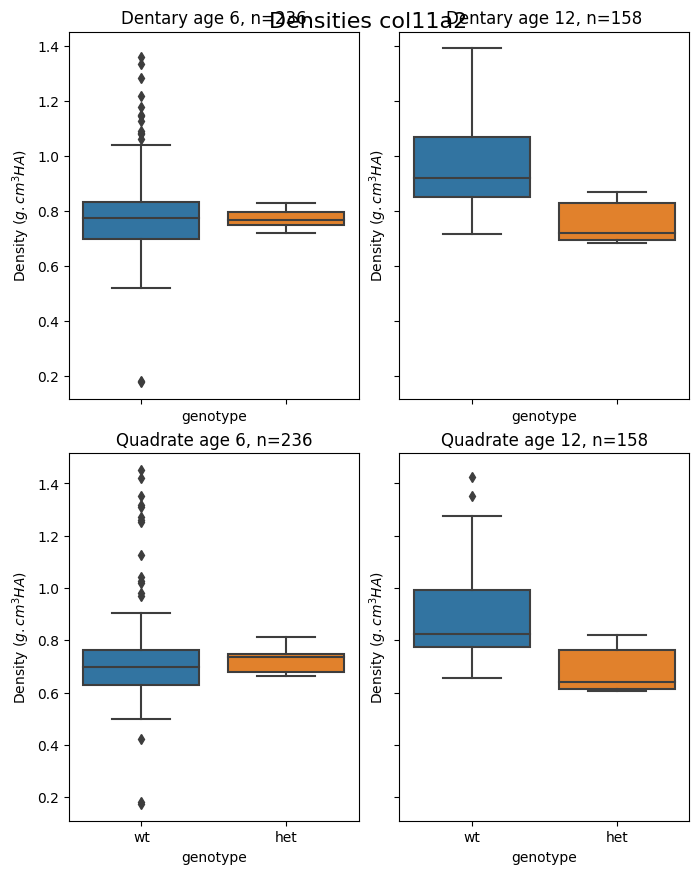
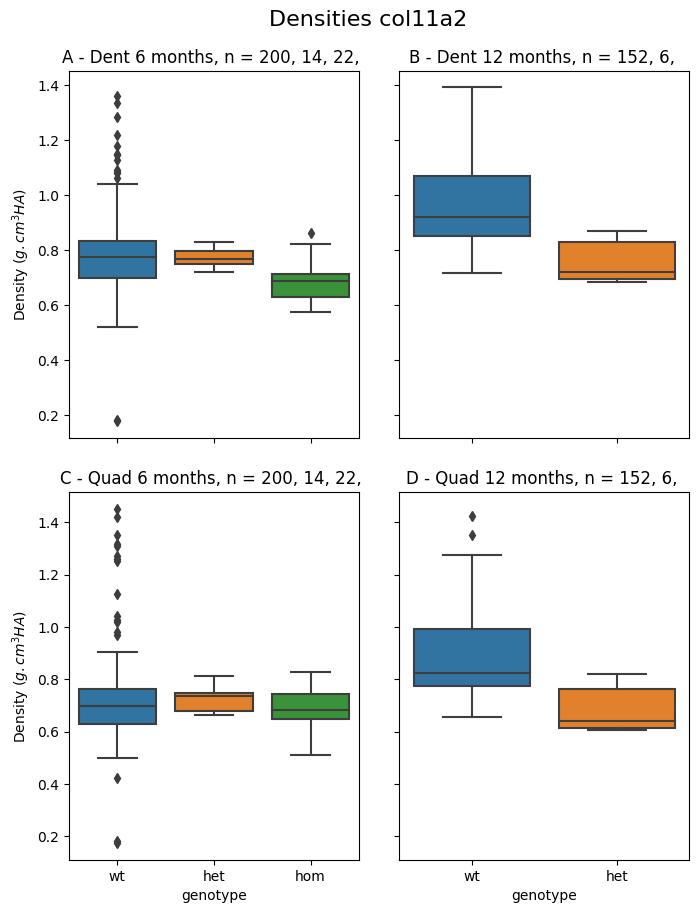
jaw figs

diff --git a/scripts/jaw/figs/plot_2x4.py b/scripts/jaw/figs/plot_2x4.py
@@ -10,11 +10,26 @@ import torch
 import seaborn as sns
 
 
+def get_names(df, col='genotype'):
+	order =['wt', 'het', 'hom', 'mosaic']
+	names = ""
+	df_dict = df.groupby(col)[col].count().to_dict()
+	
+	for i, o in enumerate(order):
+		
+		try: 
+	  		names = names + f"{df_dict[o]}, " 
+		except: pass
+			
+	
+	return names
 
 if __name__ == '__main__':
-	dataset_path = '/home/wahab/Data/HDD/uCT/'
+	# dataset_path = '/home/wahab/Data/HDD/uCT/'
 	# dataset_path = '/home/ak18001/Data/HDD/uCT/'
-	# dataset_path = '/mnt/scratch/ak18001/uCT/'
+	dataset_path = '/mnt/scratch/ak18001/uCT/'
+	sns.color_palette("hls", 3)
+
 
 	ctreader = ctfishpy.CTreader(dataset_path)
 	master = ctreader.master
@@ -30,10 +45,10 @@ if __name__ == '__main__':
 	genes_to_include = ['wt', 'barx1', 'arid1b', 'col11a2', 'giantin', 'chst11', 'runx2',
 	'wnt16', 'ncoa3', 'gdf5', 'mcf2l', 'scxa', 'sp7', 'col11 ',
 	'chsy1', 'atg', 'ctsk', 'spp1']
-	genes_to_analyse = ['wt','irf6']
+	genes_to_analyse = ['wt','col11 ']
 	age_bins = [6,12] # for age in months
 
-	import pdb; pdb.set_trace()
+	# import pdb; pdb.set_trace()
 
 	# bin  ages
 	master.age = pd.cut(master.age, bins = len(age_bins), labels=age_bins, 
@@ -79,38 +94,46 @@ if __name__ == '__main__':
 	print(dens_df)
 	print(vols_df)
 
-	fig , axs = plt.subplots(len(sub_bones)//2, len(age_bins),sharey="row",sharex=True)
+	fig , axs = plt.subplots(len(sub_bones)//2, len(age_bins),sharey="row",sharex="col")
 	plt.tight_layout()
 
 	bones_to_analyse = ["Dentary","Quadrate"]
-
+	bones_to_analyse_short = ["Dent","Quad"]
+	fig_index=0
 	for i, b in enumerate(bones_to_analyse):
-		df = ctreader.trim(dens_df, "Bone",[f"L_{b}", f"R_{b}"])
+		df = ctreader.trim(dens_df, "Bone", [f"L_{b}", f"R_{b}"])
 		for j, bin_ in enumerate(age_bins):
-			print(b,bin_)
+			print(i,j,b,bin_)
 
 			final_df = df.loc[df['age'] == bin_]
+			final_df.to_csv("output/test.csv")
 			# dropna?
-			sub_plot_title = f"{b} age {bin_}, n={len(final_df)}"
-			axs[i,j].title.set_text(sub_plot_title)
 			if len(df)>0:
 				# sns.violinplot(data=dens_df, x="genotype", y="Density ($g.cm^{3}HA$)", ax=axs[i,j], inner='stick',)
-				sns.boxplot(data=final_df, y="Density ($g.cm^{3}HA$)", hue="genotype", ax=axs[i,j])
+				sns.boxplot(data=final_df,  x="genotype", y="Density ($g.cm^{3}HA$)",ax=axs[i,j])
 			else: print("\nSKIPPED\n")
+			if b == "Dentary": axs[i,j].set_xlabel("")
+			if bin_ == 12: axs[i,j].set_ylabel("")
+			names = get_names(final_df)
+			sub_plot_title = f"{chr(fig_index+65)} - {bones_to_analyse_short[i]} {bin_} months, n = {names}"
+			axs[i,j].set_title(sub_plot_title)
 
+			fig_index += 1
 
+	# import pdb;pdb.set_trace()
 	
 	fig.set_figwidth(7)
 	fig.set_figheight(9)
+	fig.suptitle(f"Densities {genes_to_analyse[-1]}", fontsize=16, y=1.025)
+
 	# plt.subplots_adjust(left=0.125, bottom=0.125, right=0.25, top=0.25, wspace=0.25, hspace=0.25)
-	# plt.gcf().subplots_adjust(bottom=0.05, right=0.1)
-	fig.suptitle(f"Densities {genes_to_analyse[-1]}", fontsize=16)
+	# plt.gcf().subplots_adjust(bottom=0.5)
 	plt.savefig(f"output/results/jaw/genes/dens_{genes_to_analyse[-1]}.png", bbox_inches="tight")
 	plt.clf()
 
-	fig , axs = plt.subplots(len(sub_bones)//2, len(age_bins),sharey="row",sharex=True)
+	fig , axs = plt.subplots(len(sub_bones)//2, len(age_bins),sharey="row",sharex="col")
 	plt.tight_layout()
-
+	fig_index = 0
 	for i, b in enumerate(bones_to_analyse):
 		df = ctreader.trim(vols_df, "Bone",[f"L_{b}", f"R_{b}"])
 		for j, bin_ in enumerate(age_bins):
@@ -118,19 +141,25 @@ if __name__ == '__main__':
 			print(df)
 
 			final_df = df.loc[df['age'] == bin_]
-			final_df.reset_index()
-			sub_plot_title = f"{b} age {bin_}, n={len(final_df)}"
-			axs[i,j].title.set_text(sub_plot_title)
+
 			if len(df)>0:
 				# sns.violinplot(data=dens_df, x="genotype", y="Density ($g.cm^{3}HA$)", ax=axs[i,j], inner='stick',)
 				sns.boxplot(data=final_df, x="genotype", y="Volume ($mm^{3}$)", ax=axs[i,j])
 			else: print("\nSKIPPED\n")
+   
+			if b == "Dentary": axs[i,j].set_xlabel("")
+			if bin_ == 12: axs[i,j].set_ylabel("")
+			names = get_names(final_df)
+			sub_plot_title = f"{chr(fig_index+65)} - {bones_to_analyse_short[i]} {bin_} months, n = {names}"
+			axs[i,j].set_title(sub_plot_title)
+
+			fig_index += 1
 
 	fig.set_figwidth(7)
 	fig.set_figheight(9)
 	# plt.subplots_adjust(left=0.125, bottom=0.125, right=0.25, top=0.25, wspace=0.25, hspace=0.25)
 	# plt.gcf().subplots_adjust(bottom=0.05)
-	fig.suptitle(f"Volumes {genes_to_analyse[-1]}", fontsize=16)
+	fig.suptitle(f"Volumes {genes_to_analyse[-1]}", fontsize=16, y=1.025)
 	plt.savefig(f"output/results/jaw/genes/vols_{genes_to_analyse[-1]}.png", bbox_inches="tight")
 
 

diff --git a/scripts/jaw/training/scampi.py b/scripts/jaw/training/scampi.py
@@ -64,21 +64,36 @@ def train(config, dataset_path, name, bone, train_data, val_data, test_data, mod
 	
 	transforms = tio.Compose([
 		tio.RandomFlip(axes=(0), flip_probability=0.5),
-		tio.CropOrPad(params['patch_size'], padding_mode=0, p=0.5),
-		tio.RandomAffine(p=0.5),
-		tio.ZNormalization(p=0.5),
-		tio.RandomNoise(0, 0.03, p= 0.4),
+		tio.RandomAffine(p=1),
+		tio.RandomBlur(p=0.4),
+		tio.RandomBiasField(0.75, order=4, p=0.5),
+		tio.RandomNoise(1, 0.02, p=0.5),
+		tio.RandomGamma((-0.3,0.3), p=0.25),
+		tio.ZNormalization(masking_method='label', p=1),
 		tio.OneOf({
-			tio.RandomBlur(): 0.25,
-			tio.RandomBiasField(0.25, order=4): 0.25,
-			tio.RandomGamma((-0.1,0.1)): 0.25,
-		}),
-		tio.OneOf({
-			tio.RescaleIntensity(percentiles=(0,98.5)): 0.25,
-			tio.RescaleIntensity(percentiles=(1.5,100)): 0.25,
+			tio.RescaleIntensity(percentiles=(0,98)): 0.25,
+			tio.RescaleIntensity(percentiles=(2,100)): 0.25,
 			tio.RescaleIntensity(percentiles=(0.5,99.5)): 0.25,
 		})
 	])
+
+	# transforms = tio.Compose([
+	# 	tio.RandomFlip(axes=(0), flip_probability=0.5),
+	# 	tio.CropOrPad(params['patch_size'], padding_mode=0, p=0.5),
+	# 	tio.RandomAffine(p=0.5),
+	# 	tio.ZNormalization(p=0.5),
+	# 	tio.RandomNoise(0, 0.03, p= 0.4),
+	# 	tio.OneOf({
+	# 		tio.RandomBlur(): 0.25,
+	# 		tio.RandomBiasField(0.25, order=4): 0.25,
+	# 		tio.RandomGamma((-0.1,0.1)): 0.25,
+	# 	}),
+	# 	tio.OneOf({
+	# 		tio.RescaleIntensity(percentiles=(0,98.5)): 0.25,
+	# 		tio.RescaleIntensity(percentiles=(1.5,100)): 0.25,
+	# 		tio.RescaleIntensity(percentiles=(0.5,99.5)): 0.25,
+	# 	})
+	# ])
 
 	#TODO find a way to precalculate this for tiling
 	# if config['n_blocks'] == 2: label_size = (48,48,48)

diff --git a/scripts/jaw/training/scampi_cv_jaw.py b/scripts/jaw/training/scampi_cv_jaw.py
@@ -73,14 +73,14 @@ if __name__ == "__main__":
 
 	config = {
 		"lr": 0.00263078,
-		"batch_size": 1,
+		"batch_size": 8,
 		"n_blocks":6,
 		"norm": 'BATCH',
-		"epochs": 75,
-		"start_filters": 8,
-		"kernel_size": 5,
+		"epochs": 150,
+		"start_filters": 32,
+		"kernel_size": 7,
 		"activation": "RELU",
-		"dropout": 0.000178,
+		"dropout": 0.015,
 		"patch_size": (160,160,160),
 		"loss_function": monai.losses.TverskyLoss(include_background=True, alpha=0.2), 
 	}
